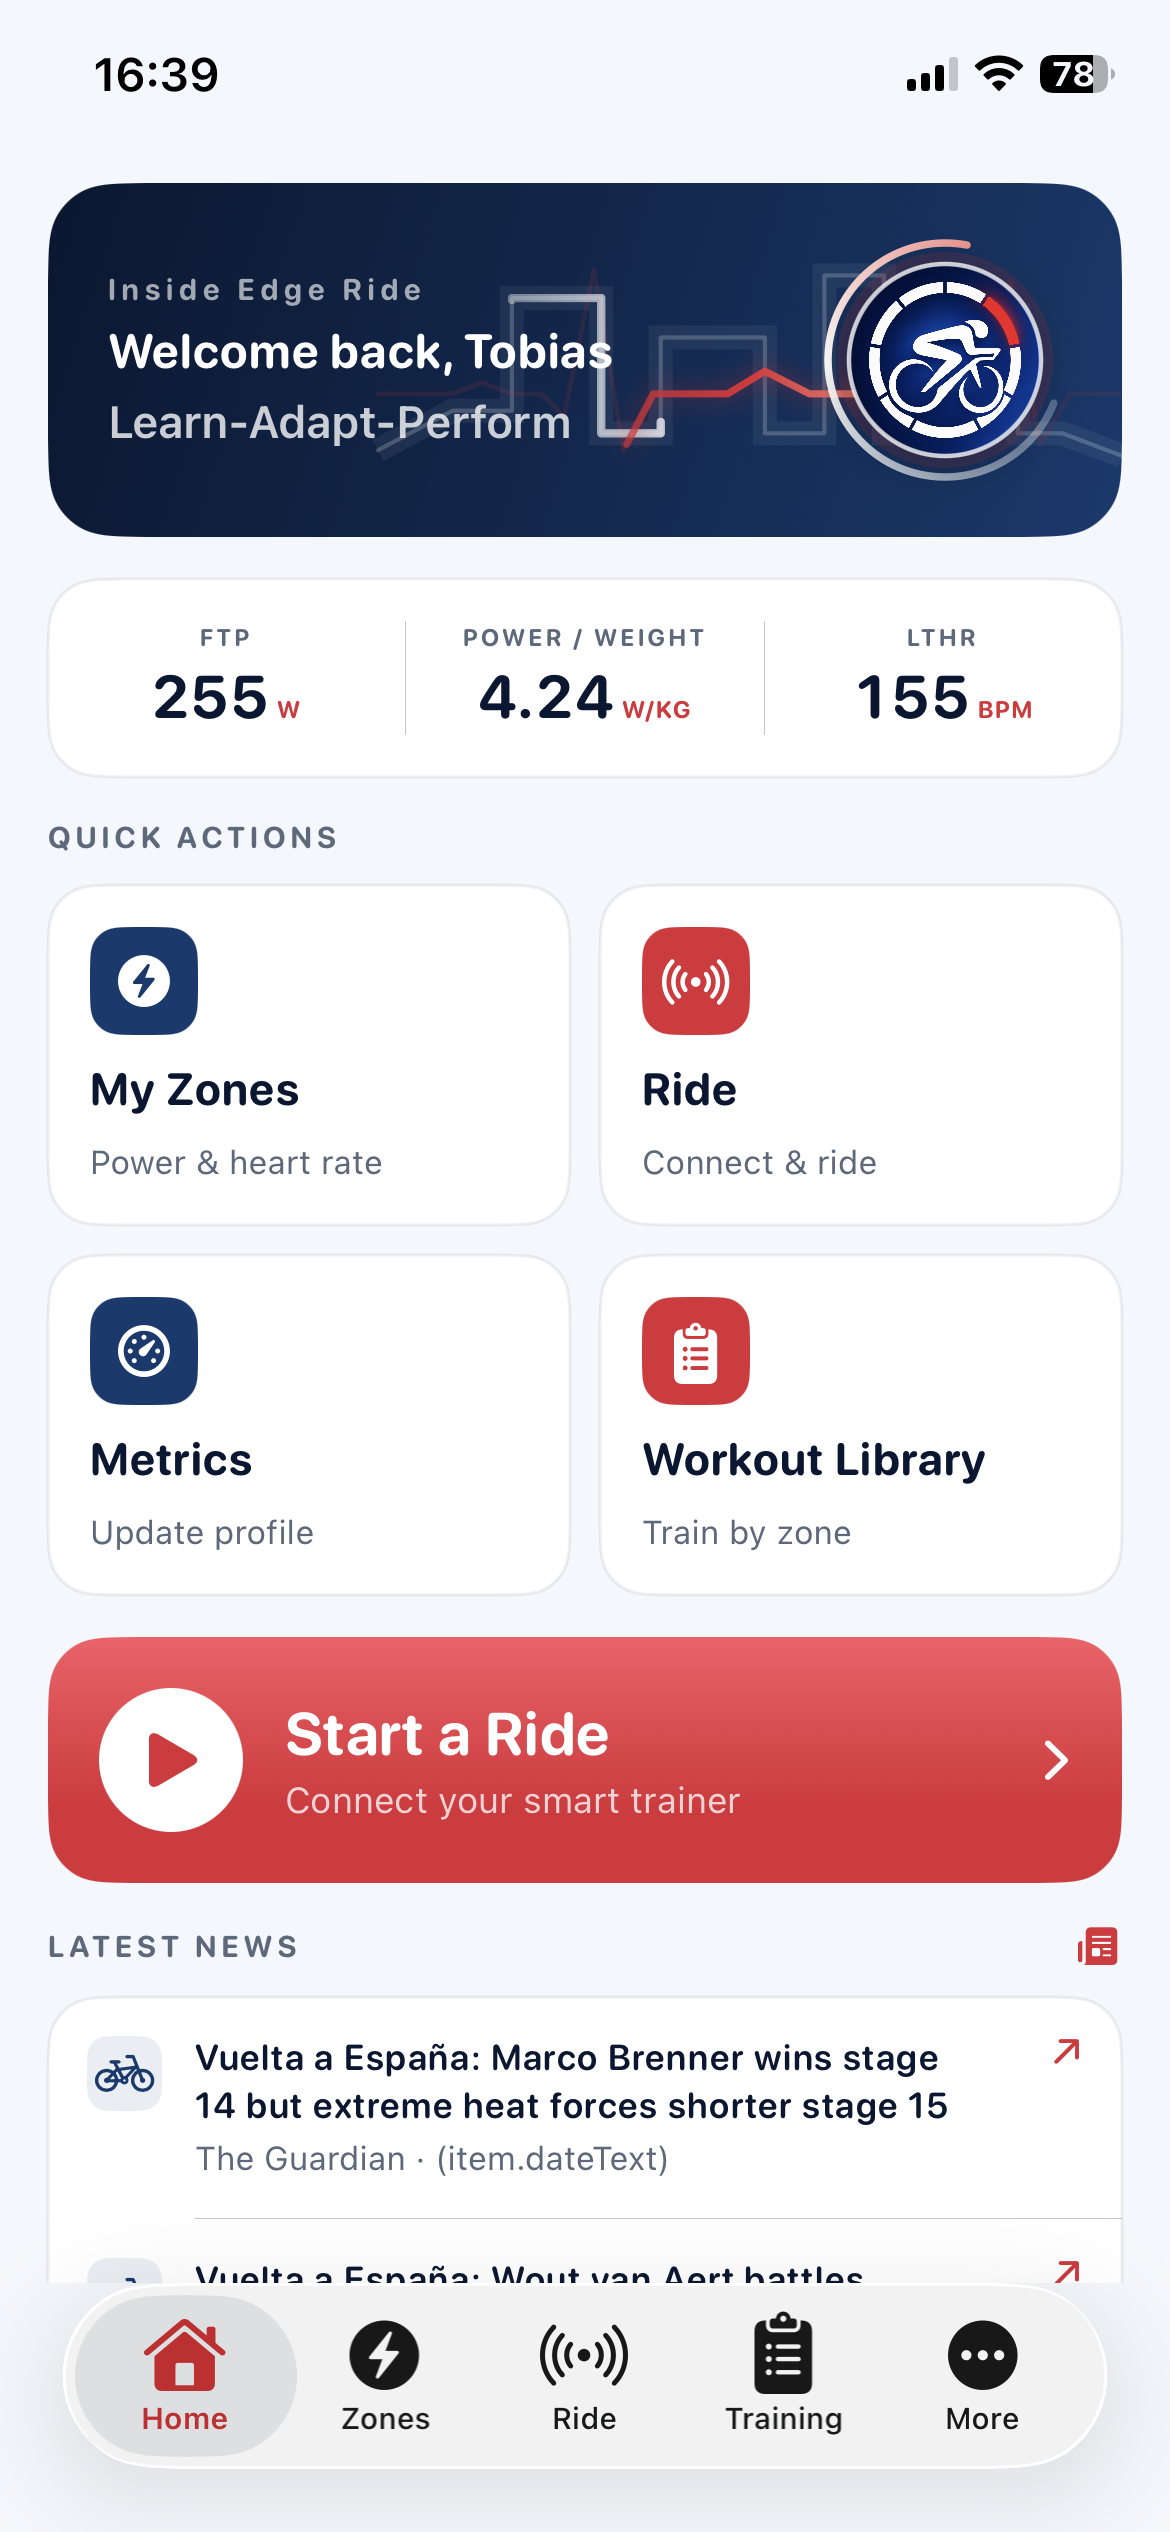
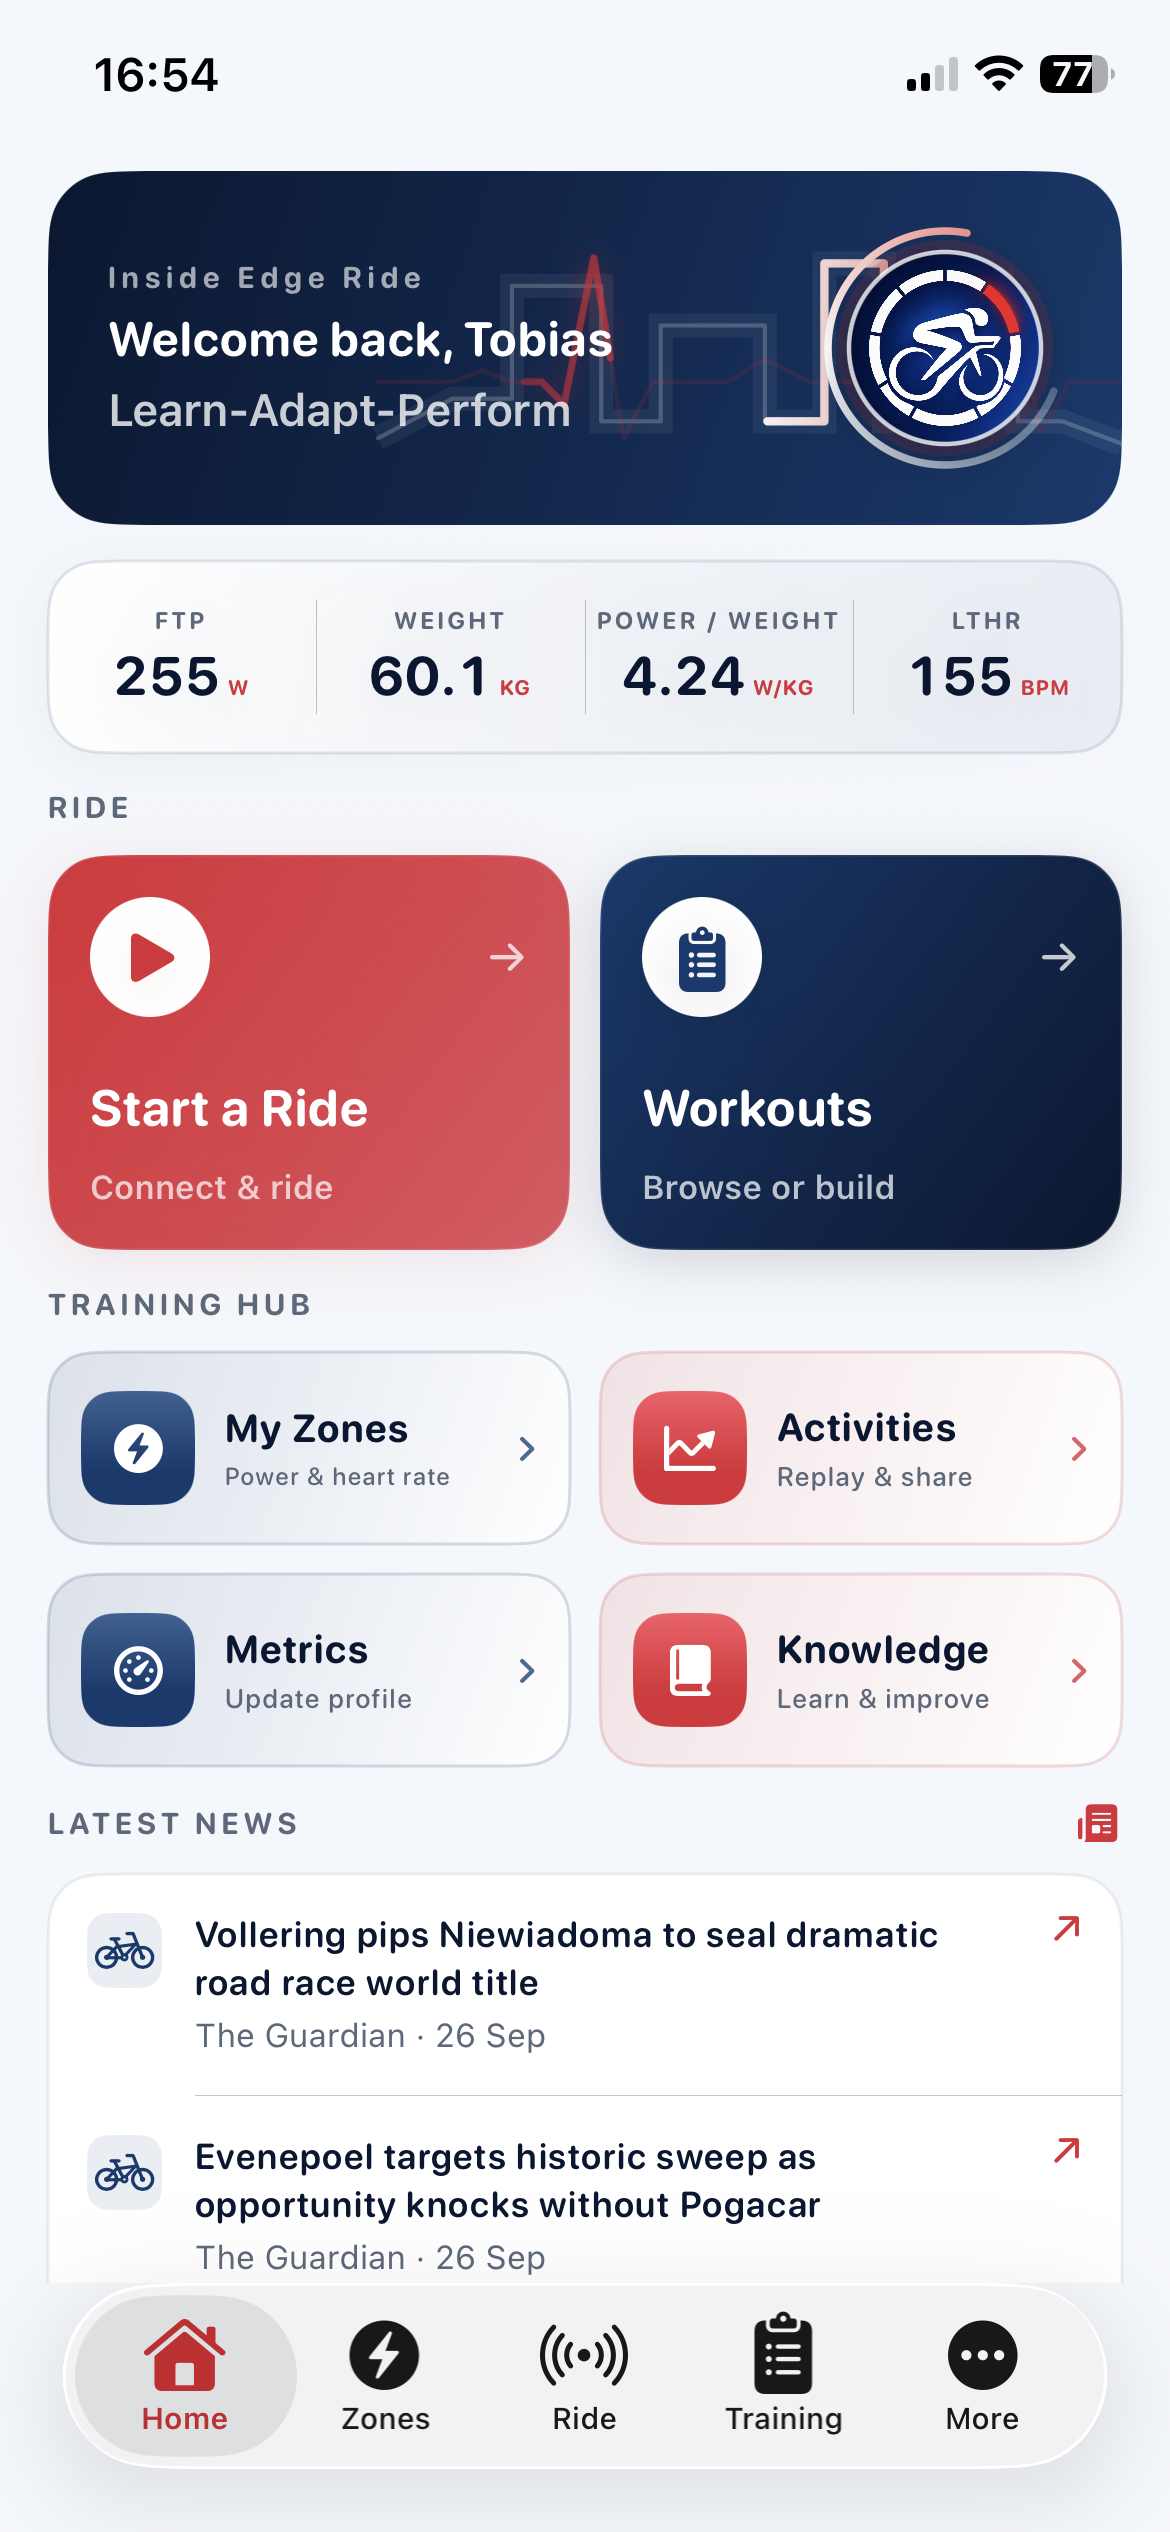
Update Ride website for TestFlight build and revised app pathways

diff --git a/insideedgeride/ride/index.html b/insideedgeride/ride/index.html
@@ -1,7 +1,8 @@
 <!doctype html><html lang="en-GB"><head><meta charset="utf-8"><meta name="viewport" content="width=device-width,initial-scale=1"><meta name="description" content="Ride structured cycling workouts with live power, heart rate, cadence, interval guidance and smart-trainer ERG control."><title>Workout Ride — Inside Edge Ride</title><link rel="canonical" href="https://www.insideedge-studios.com/insideedgeride/ride/"><link rel="stylesheet" href="../../assets/css/styles.css"><link rel="stylesheet" href="../../assets/css/ride-overview.css"></head>
 <body><a class="skip-link" href="#main">Skip to content</a><header class="site-header"><nav class="nav" aria-label="Main navigation"><a class="brand studio-brand" href="../../"><img src="../../assets/images/inside-edge-studios-logo.png" alt="" width="34" height="34"><span>Inside Edge</span></a><div class="nav-links journey-nav app-nav"><a href="../">Home &ndash; Ride</a><a href="../understand/">01 Understand</a><a href="../tools/">02 Tools</a><a href="../workouts/">03 Choose</a><a href="../connect/">04 Connect</a><a aria-current="page" href="./">05 Ride</a><a href="../review/">06 Review</a></div></nav></header>
 <main id="main"><section class="journey-hero"><div class="wrap journey-hero-grid"><div><span class="journey-kicker">05</span><p class="eyebrow">Ride</p><h1>The workout, the response and the controls—together.</h1><p>Follow personalised targets with the information that matters under pressure: actual and target power, heart rate, cadence, interval time, W/kg, percentage of FTP and the current training zone.</p><div class="overview-pills"><span>Live ERG control</span><span>Free Ride</span><span>Workout bias</span><span>Three live views</span></div></div><figure class="phone-shot"><img src="../../assets/images/ride-workout-profile.png" alt="Inside Edge Ride workout profile and personalised targets"></figure></div></section>
-<section class="overview-section workout-showcase" id="workout-ride"><div class="wrap"><div class="section-heading light-heading"><p class="eyebrow">Workout Ride</p><h2>A real workout. A real trainer. One focused screen.</h2><p>Preview the profile, press play and let ERG mode apply each target using your FTP. Live power, cadence, heart rate, interval timing and the complete session remain visible.</p></div><figure class="landscape-shot"><img src="../../assets/images/ride-workout-live-ipad.png" alt="Inside Edge Ride controlling an anaerobic workout on iPad in landscape"><figcaption><span>Live workout on iPad</span><span>Actual power · Target power · Heart rate · Cadence · Current and next intervals</span></figcaption></figure><div class="workout-points"><article><b>Control</b><span>Automatic ERG targets, workout bias, pause and interval navigation.</span></article><article><b>Respond</b><span>Switch between ERG and Passive while timing and recording continue.</span></article><article><b>See</b><span>The workout profile, live progress and actual response at a glance.</span></article></div></div></section>
+<section class="overview-section workout-showcase" id="workout-ride"><div class="wrap"><div class="section-heading light-heading"><p class="eyebrow">Workout Ride</p><h2>A real workout. A real trainer. Three focused views.</h2><p>Press play and let ERG mode apply each target using your FTP. Standard View combines controls, metrics, interval guidance and the profile; Focused View gives the live data more room; Max Metrics makes the essential numbers impossible to miss.</p></div><div class="builder-screen-grid"><figure class="phone-shot"><img src="../../assets/images/ride-workout-standard.png" alt="Inside Edge Ride Standard View showing live workout metrics, interval list, profile and controls"><figcaption>Standard View — complete workout context and controls.</figcaption></figure><figure class="phone-shot"><img src="../../assets/images/ride-workout-focused.png" alt="Inside Edge Ride Focused View showing live workout metrics, intervals and workout profile"><figcaption>Focused View — live metrics and interval progress with fewer controls.</figcaption></figure></div><div class="workout-points"><article><b>Control</b><span>Automatic ERG targets, workout bias, pause and interval navigation.</span></article><article><b>Respond</b><span>Switch between ERG and Passive while timing and recording continue.</span></article><article><b>See</b><span>Cycle through Standard, Focused and Max Metrics views while the workout continues.</span></article></div></div></section>
+<section class="overview-section" id="free-ride"><div class="wrap"><div class="section-heading max-metrics-heading"><p class="eyebrow dark">Free Ride</p><h2>Ride freely—or ask the trainer to hold your target.</h2><p class="lead">Start in Passive mode or select a target for ERG control. Live power, cadence, heart rate and W/kg remain visible while the rolling 120-second trace builds a colour-coded record of your effort.</p></div><div class="builder-screen-grid"><figure class="phone-shot light-phone"><img src="../../assets/images/ride-free-ride-start.png" alt="Inside Edge Ride Free Ride with a 220 watt target and a new rolling power trace"><figcaption>Target mode — the rolling trace begins with live power and heart rate.</figcaption></figure><figure class="phone-shot light-phone"><img src="../../assets/images/ride-free-ride-live.png" alt="Inside Edge Ride Free Ride showing a populated 120-second power and heart-rate trace"><figcaption>Live telemetry — power zones below a heart-rate trace across 120 seconds.</figcaption></figure></div></div></section>
 <section class="overview-section max-metrics-showcase" id="max-metrics"><div class="wrap"><div class="section-heading max-metrics-heading"><p class="eyebrow dark">Max Metrics View</p><h2>Swipe through the ride. See every number at full scale.</h2><p class="lead">Keep the essential workout targets in front of you, then move continuously through live power, ride averages and heart-rate performance. Large, high-contrast data cards stay readable when the effort gets hard.</p></div><div class="max-metrics-flow" aria-label="Max Metrics screen order"><span>Workout data</span><i aria-hidden="true">→</i><span>Power performance</span><i aria-hidden="true">→</i><span>Ride averages</span><i aria-hidden="true">→</i><span>Heart-rate performance</span><i aria-hidden="true">↻</i></div><div class="max-metrics-grid"><figure class="max-metrics-card"><img src="../../assets/images/ride-max-workout-data.jpg" alt="Inside Edge Ride Max Metrics workout screen showing actual power, target power, interval time and heart rate" width="2387" height="1357" loading="lazy" decoding="async"><figcaption><strong>Workout data</strong><span>Actual power, target power, remaining interval time and heart rate in one focused view.</span></figcaption></figure><figure class="max-metrics-card"><img src="../../assets/images/ride-max-power-performance.jpg" alt="Inside Edge Ride power performance screen showing live power, averages, maximum power and time in power zones" width="2387" height="1345" loading="lazy" decoding="async"><figcaption><strong>Power performance</strong><span>Live, average and maximum power alongside active time and time in every power zone.</span></figcaption></figure><figure class="max-metrics-card"><img src="../../assets/images/ride-max-averages.jpg" alt="Inside Edge Ride averages screen showing power, heart rate, cadence, speed, intensity, load and calories" width="2387" height="1356" loading="lazy" decoding="async"><figcaption><strong>Ride averages</strong><span>Power, heart rate, cadence, speed, relative intensity, estimated load and calories at a glance.</span></figcaption></figure><figure class="max-metrics-card"><img src="../../assets/images/ride-max-heart-rate-performance.jpg" alt="Inside Edge Ride heart-rate performance screen showing live, average and maximum heart rate and time in heart-rate zones" width="2387" height="1349" loading="lazy" decoding="async"><figcaption><strong>Heart-rate performance</strong><span>Live, average and maximum heart rate, percentage of LTHR and time across every heart-rate zone.</span></figcaption></figure></div></div></section>
 <section class="overview-section"><div class="wrap editorial-grid"><div><p class="eyebrow dark">Designed for the effort</p><h2>Useful when looking at the screen is the last thing you want to do.</h2><p class="lead">Large digital readouts and clearly separated controls make the screen easier to use during hard intervals. Cycle between Standard, Focused and Max Metrics views, then swipe through live workout, power, averages and heart-rate pages when the numbers deserve the whole display.</p><ul class="clean-list"><li>Actual and target power shown separately</li><li>Live zone names and target-status guidance</li><li>One-touch pause, skip and workout bias controls</li><li>Real-time power, averages and heart-rate performance screens</li><li>Portrait and landscape layouts for iPhone and iPad</li></ul></div><aside class="promise-card"><span>ERG or Passive</span><strong>Follow the target.<br>Or ride free.</strong><p>Use Free Ride in Passive mode or set an ERG target. Leaving a completed workout releases trainer control while recording can continue.</p></aside></div></section>
 <section class="overview-section journey-next"><div class="wrap value-card"><div><p class="eyebrow">Next: Review</p><h2>Keep the ride when the final interval ends.</h2><p>Review the completed graph and performance metrics, save a readable local history or export the ride.</p></div><div class="actions"><a class="button" href="../review/">Review, save and share</a></div></div></section></main>

diff --git a/insideedgeride/connect/index.html b/insideedgeride/connect/index.html
@@ -1,6 +1,7 @@
 <!doctype html><html lang="en-GB"><head><meta charset="utf-8"><meta name="viewport" content="width=device-width,initial-scale=1"><meta name="description" content="Connect Inside Edge Ride to a compatible Bluetooth smart trainer and heart-rate monitor for focused indoor cycling."><title>Connect Your Trainer — Inside Edge Ride</title><link rel="canonical" href="https://www.insideedge-studios.com/insideedgeride/connect/"><link rel="stylesheet" href="../../assets/css/styles.css"><link rel="stylesheet" href="../../assets/css/ride-overview.css"></head>
 <body><a class="skip-link" href="#main">Skip to content</a><header class="site-header"><nav class="nav" aria-label="Main navigation"><a class="brand studio-brand" href="../../"><img src="../../assets/images/inside-edge-studios-logo.png" alt="" width="34" height="34"><span>Inside Edge</span></a><div class="nav-links journey-nav app-nav"><a href="../">Home &ndash; Ride</a><a href="../understand/">01 Understand</a><a href="../tools/">02 Tools</a><a href="../workouts/">03 Choose</a><a aria-current="page" href="./">04 Connect</a><a href="../ride/">05 Ride</a><a href="../review/">06 Review</a></div></nav></header>
-<main id="main"><section class="journey-hero"><div class="wrap journey-hero-grid"><div><span class="journey-kicker">04</span><p class="eyebrow">Connect</p><h1>Bring your trainer into the workout.</h1><p>Connect a compatible Bluetooth smart trainer for live power and automatic resistance control. Add a heart-rate monitor to see how your body responds as the work changes.</p><div class="overview-pills"><span>Bluetooth</span><span>Smart trainer</span><span>Heart rate</span><span>ERG or Passive</span></div></div><figure class="phone-shot"><img src="../../assets/images/ride-connect-equipment.png" alt="Inside Edge Ride equipment connection screen"></figure></div></section>
+<main id="main"><section class="journey-hero"><div class="wrap journey-hero-grid"><div><span class="journey-kicker">04</span><p class="eyebrow">Connect</p><h1>Bring your trainer into the workout.</h1><p>Connect a compatible Bluetooth smart trainer for live power and automatic resistance control. Add a heart-rate monitor to see how your body responds as the work changes.</p><div class="overview-pills"><span>Bluetooth</span><span>Smart trainer</span><span>Heart rate</span><span>ERG or Passive</span></div></div><figure class="phone-shot"><img src="../../assets/images/ride-connect-ready.png" alt="Inside Edge Ride equipment screen ready to connect a smart trainer and heart-rate monitor"></figure></div></section>
 <section class="overview-section"><div class="wrap editorial-grid"><div><p class="eyebrow dark">Simple setup</p><h2>Connect once, then choose how you want to ride.</h2><p class="lead">The Ride screen keeps trainer and heart-rate connections beside the riding choices. Use a structured workout, ride freely with target control, or select Passive mode to monitor power without the app changing resistance.</p><div class="feature-trio"><article><strong>Smart trainer</strong><span>Receive live power and, when supported, let ERG mode apply each workout target.</span></article><article><strong>Heart-rate monitor</strong><span>Add live heart rate to understand the physiological response to the effort.</span></article><article><strong>Guidance only</strong><span>Explore and follow a workout without connected equipment; live sensing and trainer control remain unavailable.</span></article></div></div><aside class="promise-card"><span>Focused compatibility</span><strong>Your equipment.<br>Your targets.<br>One clear screen.</strong><p>No virtual world is required—only the training equipment and Apple device you already use.</p></aside></div></section>
+<section class="overview-section"><div class="wrap product-row"><div><p class="eyebrow dark">Connected and ready</p><h2>Connection status stays beside the way you want to ride.</h2><p class="lead">Once a trainer is connected, its status and controls remain visible before you choose Passive Free Ride, a target-controlled Free Ride or a structured workout.</p><ul class="clean-list"><li>Manage or disconnect the active trainer</li><li>Connect heart rate independently</li><li>Unlock Free Ride target control</li><li>Open the structured workout library</li></ul></div><figure class="phone-shot light-phone"><img src="../../assets/images/ride-connect-active.png" alt="Inside Edge Ride showing a connected Wahoo smart trainer with Free Ride and Structured Workout choices"><figcaption>Trainer connected and target control available.</figcaption></figure></div></section>
 <section class="overview-section journey-next"><div class="wrap value-card"><div><p class="eyebrow">Next: Ride</p><h2>Let the workout take control—or stay in charge yourself.</h2><p>See how live metrics, ERG targets, interval guidance and the workout graph come together during a ride.</p></div><div class="actions"><a class="button" href="../ride/">Explore Workout Ride</a><a class="button secondary" href="../workouts/">Choose a workout</a></div></div></section></main>
 <footer class="site-footer"><div class="wrap footer-grid"><span>&copy; <span data-year></span> Inside Edge Studios</span><div class="footer-links"><a href="../support/">Support</a><a href="../privacy/">Privacy</a><a href="../methodology/">Methodology</a><a href="../../">All apps</a></div></div></footer><script src="../../assets/js/site.js" defer></script></body></html>
